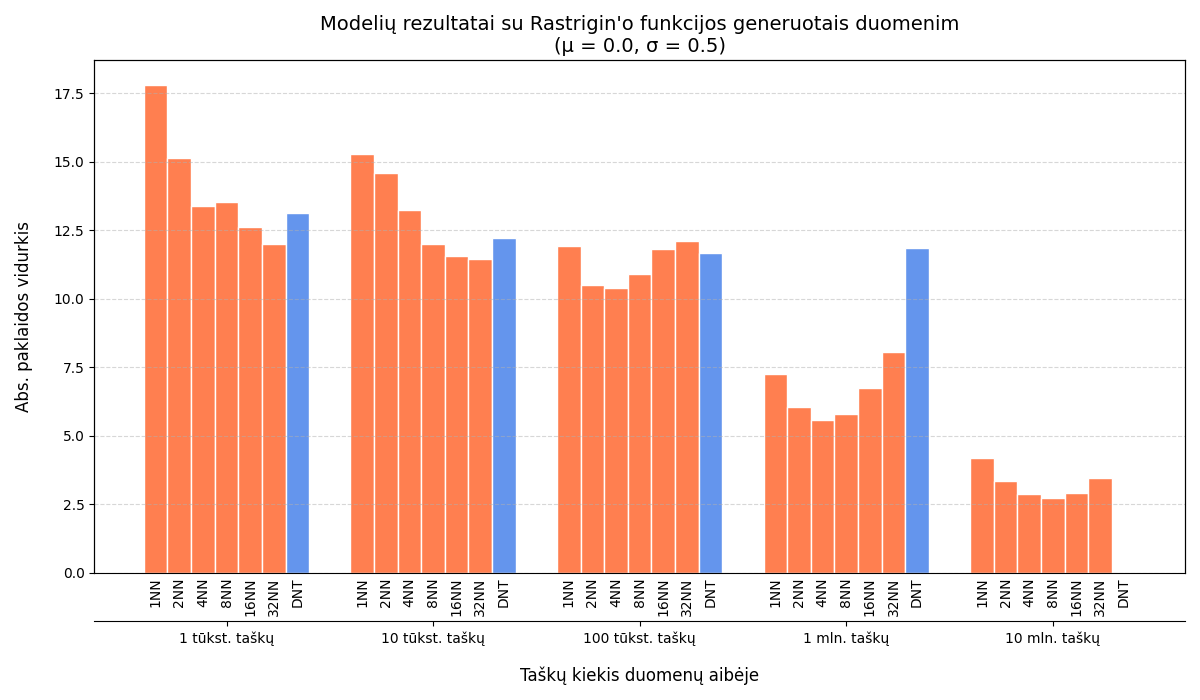
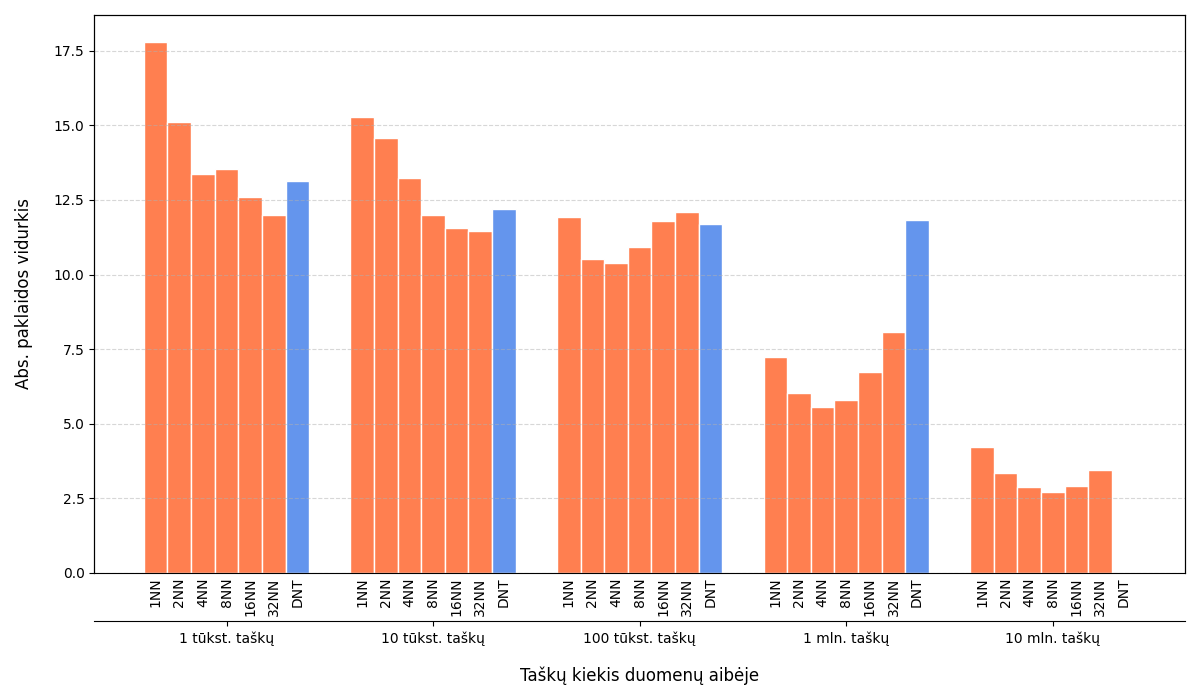
removed title from bar graph

diff --git a/bar_graph.py b/bar_graph.py
@@ -23,13 +23,6 @@ if __name__ == "__main__":
     )
 
     parser.add_argument(
-        "--graph-title",
-        type = str,
-        required = True,
-        help = "Graph title"
-    )
-
-    parser.add_argument(
         "--benchmark-func",
         type = str,
         default = None,
@@ -102,7 +95,6 @@ if __name__ == "__main__":
     data_size_axis.set_xticks(x)
     data_size_axis.set_xticklabels(data_sizes, fontsize = 10)
 
-    data_size_axis.set_title(f"{args.graph_title}\n(μ = {0.0}, σ = {args.noise_std})", fontsize = 14)
     data_size_axis.set_xlabel("Taškų kiekis duomenų aibėje", labelpad = 15, fontsize = 12)
     
     # y-axis configuration
